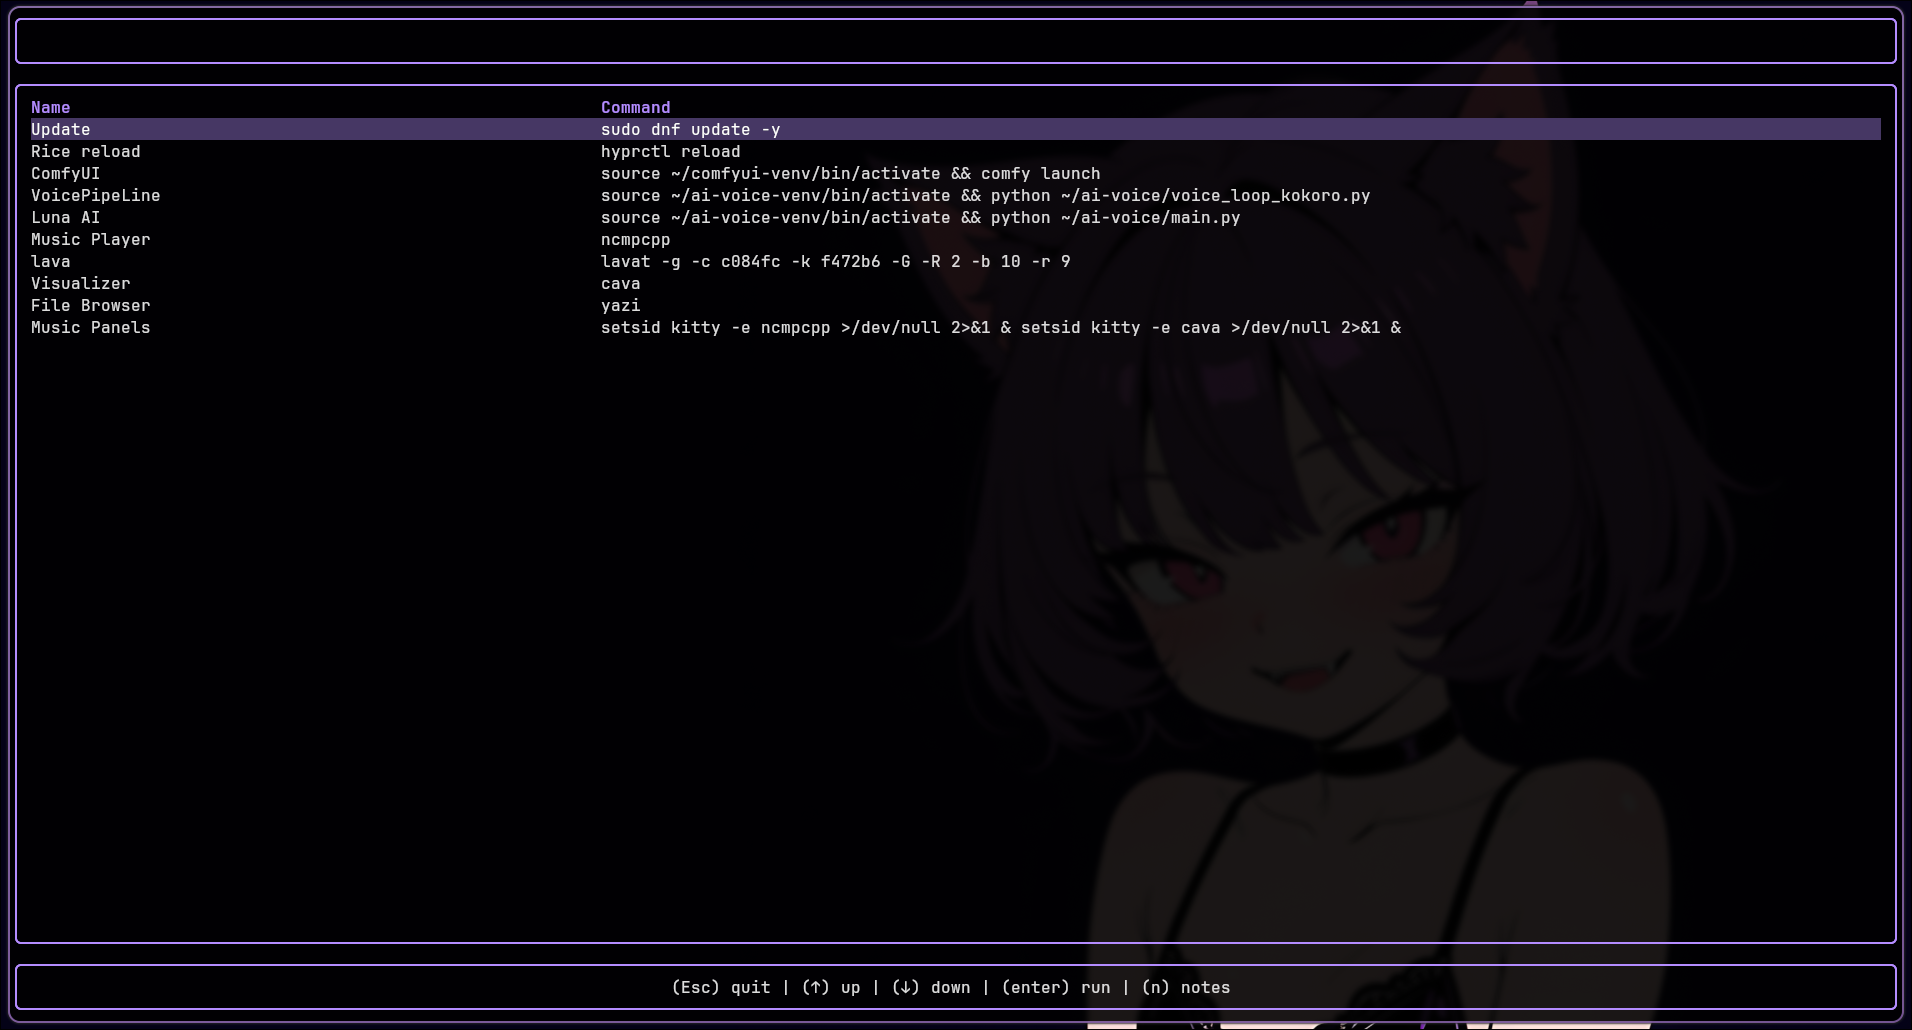
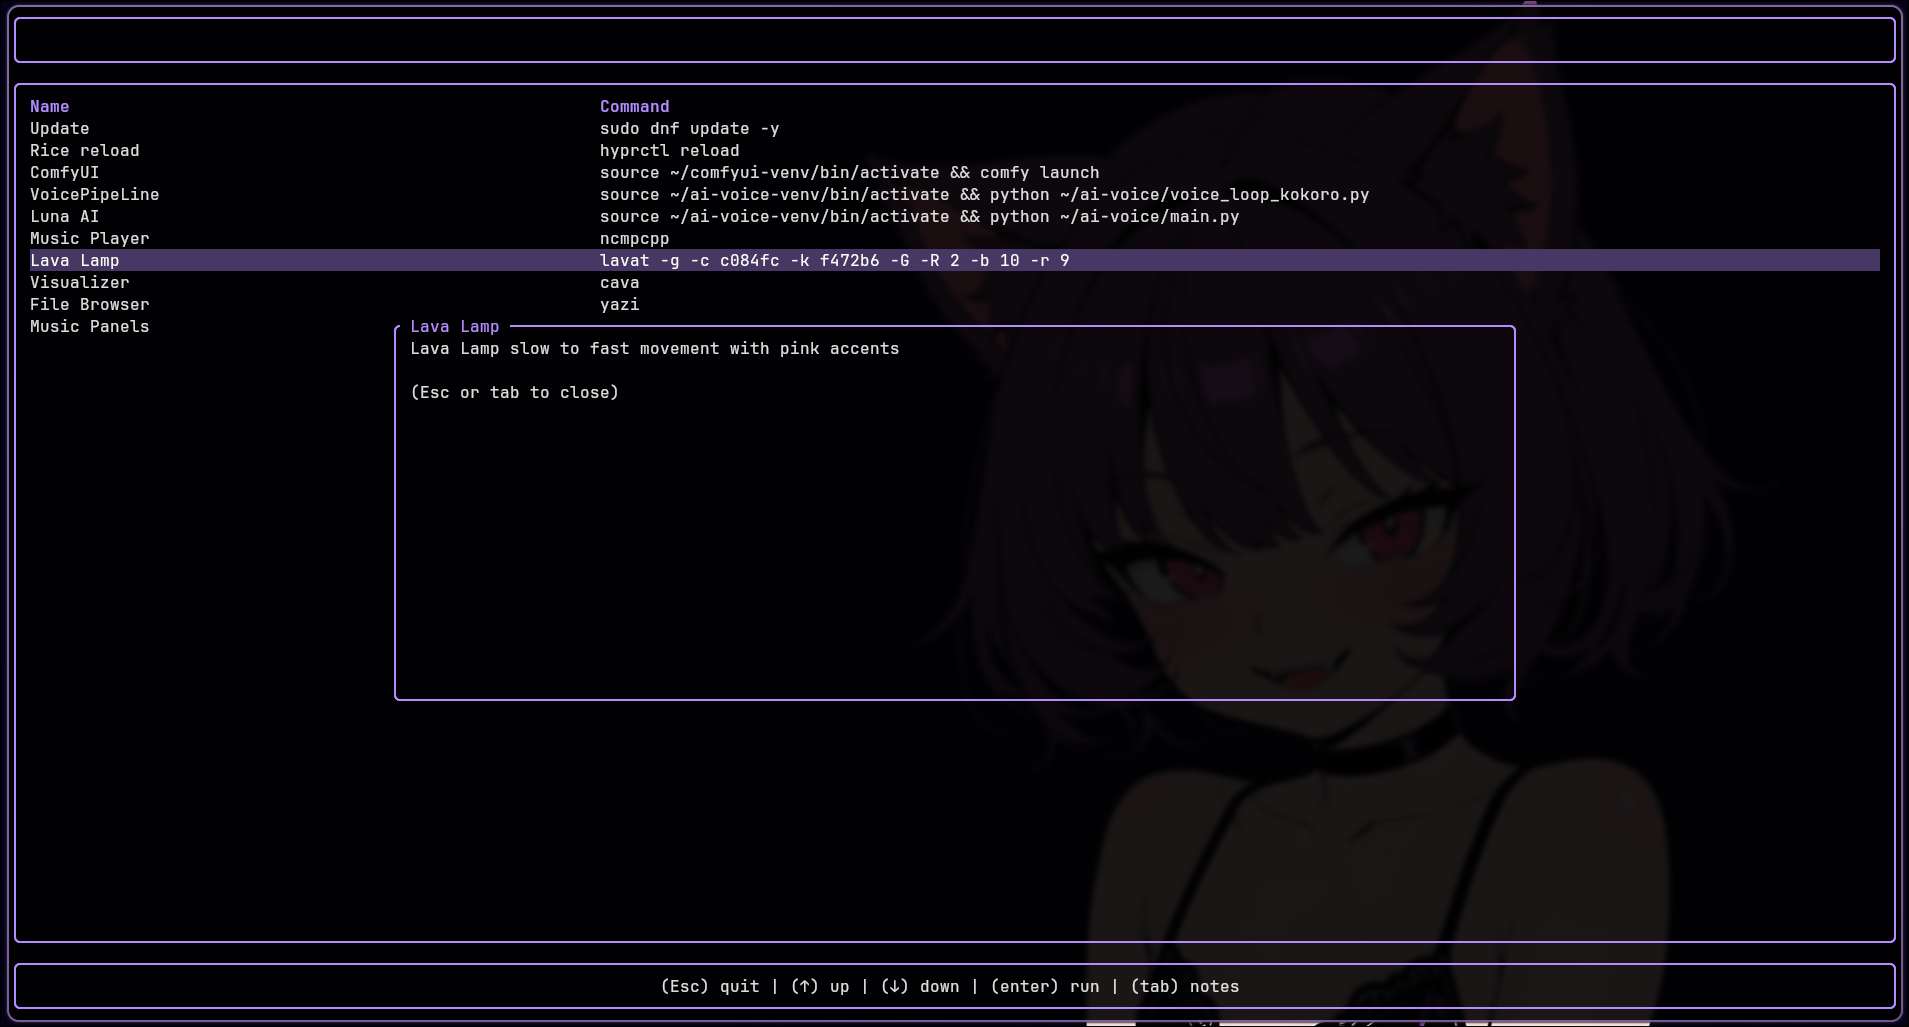
change key binds, updated read me

Changed region(s): [[0.0, 0.0, 1.0, 1.0], [0.2163, 0.3116, 0.7417, 0.3427], [0.2163, 0.3739, 0.3091, 0.4051]]

diff --git a/src/main.rs b/src/main.rs
@@ -55,8 +55,8 @@ impl Default for ThemeConfig {
         Self {
             border: "#60a5fa".into(),
             header: "#06b6d4".into(),
-            highlight_bg: "#334155".into(),
-            highlight_fg: "#ffffff".into(),
+            highlight_bg: "#d4d4d8".into(),
+            highlight_fg: "#18181b".into(),
         }
     }
 }
@@ -259,7 +259,7 @@ fn ui(f: &mut Frame, app: &mut App) {
     f.render_stateful_widget(table, chunks[1], &mut app.table_state);
 
     let footer = Paragraph::new(Line::from(vec![Span::raw(
-        "(Esc) quit | (\u{2191}) up | (\u{2193}) down | (enter) run | (n) notes",
+        "(Esc) quit | (\u{2191}) up | (\u{2193}) down | (enter) run | (tab) notes",
     )]))
     .alignment(Alignment::Center)
     .block(theme.block());
@@ -273,7 +273,7 @@ fn ui(f: &mut Frame, app: &mut App) {
             } else {
                 e.notes.clone()
             };
-            let popup = Paragraph::new(format!("{notes}\n\n(Esc or n to close)"))
+            let popup = Paragraph::new(format!("{notes}\n\n(Esc or tab to close)"))
                 .wrap(Wrap { trim: false })
                 .block(theme.block().title(format!(" {} ", e.name)));
             f.render_widget(Clear, area);
@@ -324,7 +324,7 @@ fn run_app(terminal: &mut Terminal<CrosstermBackend<Stdout>>, app: &mut App) -> 
                     }
                     if app.show_notes {
                         match key.code {
-                            KeyCode::Esc | KeyCode::Char('n') => app.show_notes = false,
+                            KeyCode::Esc | KeyCode::Tab => app.show_notes = false,
                             _ => {}
                         }
                         continue;
@@ -342,7 +342,7 @@ fn run_app(terminal: &mut Terminal<CrosstermBackend<Stdout>>, app: &mut App) -> 
                             app.filter.pop();
                             app.apply_filter();
                         }
-                        KeyCode::Char('n') => app.show_notes = true,
+                        KeyCode::Tab => app.show_notes = true,
                         KeyCode::Char(c) => {
                             app.filter.push(c);
                             app.apply_filter();

diff --git a/README.md b/README.md
@@ -1,8 +1,8 @@
 # sfav
 
-![alt text](image-1.png)
+![alt text](image.png)
 
-![alt text](image-2.png)
+![alt text](image-1.png)
 
 **`sfav` is a terminal command launcher for arbitrary shell commands.**
 
@@ -230,7 +230,7 @@ If an invalid color is supplied, `sfav` falls back to white and prints a warning
 | --------- | ------------------------ |
 | `↑` / `↓` | Move selection           |
 | `Enter`   | Execute selected command |
-| `N`       | View notes for command   |
+| `Tab`     | View notes for command   |
 | `Esc`     | Quit                     |
 | Typing    | Filter commands          |
 
